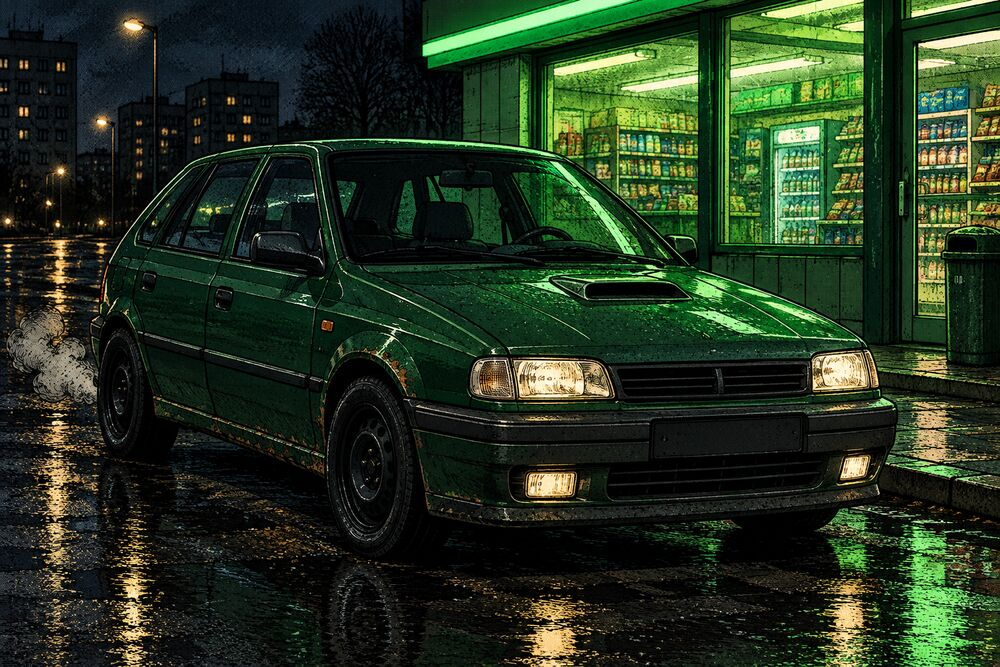
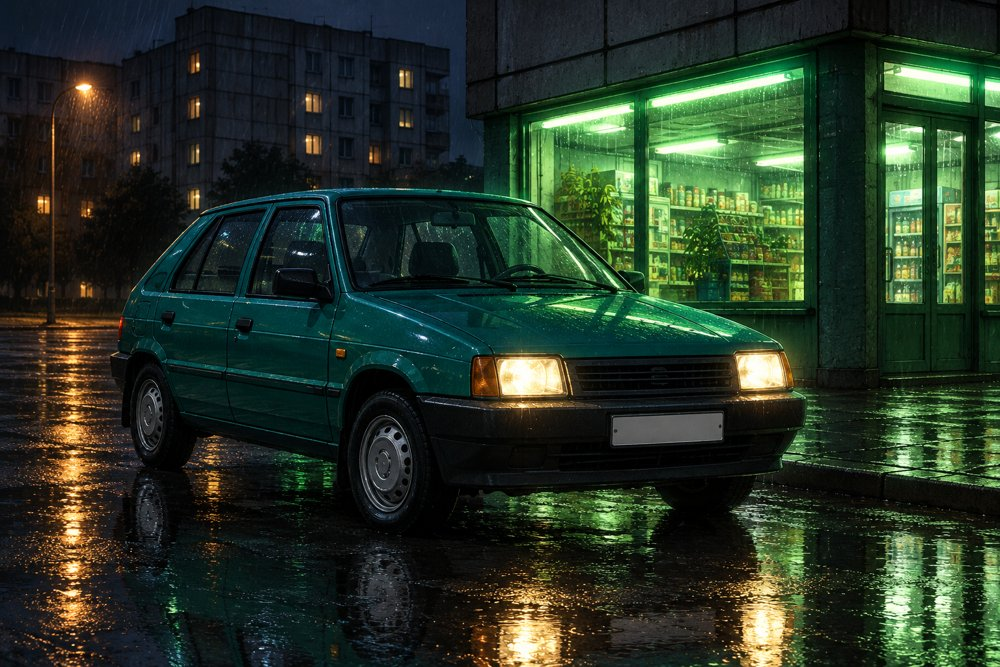
Garage art cards redrawn in the night poster style: Krosík SUV, Felda (teal), Golfík (red), Supka (orange with wing) to match the new models
Claude-Session: https://claude.ai/code/session_01Tt18V6mhpxc2nVgtq6weTV

diff --git a/public/index.html b/public/index.html
@@ -1332,8 +1332,8 @@ function renderGarage(){const el=$('scr-garage'),c=gList()[gIdx],own=SAVE.owned.
     else{if(!partFits(o.k,c.id))continue;tn+=`<div class="tl">${o.ic} ${o.l}</div><div class="chips">${o.vals.filter(([v])=>partFits(o.k+':'+v,c.id)).map(([v,l,price])=>{const key=o.k+':'+v,dflt=String(Z[o.k]===undefined?(o.k==='wing'?((Z.kit||[]).includes('wing')?1:0):''):Z[o.k])===String(v),ok=!price||dflt||has(key);
       return ok?`<button data-tune="${key}" class="${String(v0)===String(v)?'on':''}">${l}</button>`:`<button class="lkc" data-tbuy="${key}" ${SAVE.cash<price?'disabled':''}>🔒 ${l} • ${pr(price)}</button>`}).join('')}</div>`}}
    tn+=`<div style="text-align:center;margin-top:10px"><button class="btn sm dark" data-tune="reset:1">Původní vzhled</button></div></div>`}
-  const view=is3?`<div id="gstage">${own?'':'<span class="lk">🔒 ZAMČENO</span>'}${G.gIntro&&performance.now()-G.gIntro<500?`<div class="gcard" style="background-image:url(art/car_${c.id}.jpg?v=2)"><b>${c.name}</b><i>${c.desc}</i></div>`:''}</div>`:'';
-  el.innerHTML=topBar('GARÁŽ')+view+`<div class="${is3?'gsheet':'card'}" style="width:100%;max-width:560px">${is3?'':`<div class="carview ${own?'':'locked'}" style="background-image:url(art/car_${c.id}.jpg?v=2)"></div>`}
+  const view=is3?`<div id="gstage">${own?'':'<span class="lk">🔒 ZAMČENO</span>'}${G.gIntro&&performance.now()-G.gIntro<500?`<div class="gcard" style="background-image:url(art/car_${c.id}.jpg?v=3)"><b>${c.name}</b><i>${c.desc}</i></div>`:''}</div>`:'';
+  el.innerHTML=topBar('GARÁŽ')+view+`<div class="${is3?'gsheet':'card'}" style="width:100%;max-width:560px">${is3?'':`<div class="carview ${own?'':'locked'}" style="background-image:url(art/car_${c.id}.jpg?v=3)"></div>`}
   <div class="gnav"><button class="btn sm dark" data-gnav="-1">‹</button><div style="text-align:center"><h3>${c.name}</h3><div class="tag">${gIdx+1} / ${gList().length} ${own?'':'• ZAMČENO'}${is3?' • otoč prstem':''}</div></div><button class="btn sm dark" data-gnav="1">›</button></div>
   <p>${c.desc}</p>${bar('Rychlost',(c.max-200)/1.6)}${bar('Zrychlení',(c.acc-150)/1.3)}${bar('Ovládání',(c.turn*c.grip-14)*2.6)}${bar('Odolnost',(c.hp-80)*2)}
   <div style="text-align:center">${btn}</div>${tn}</div>`;
